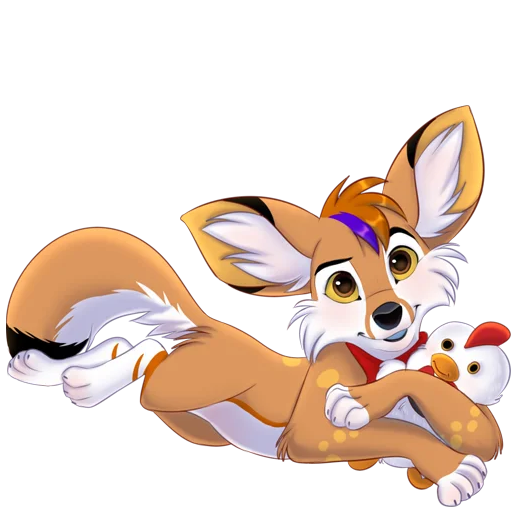
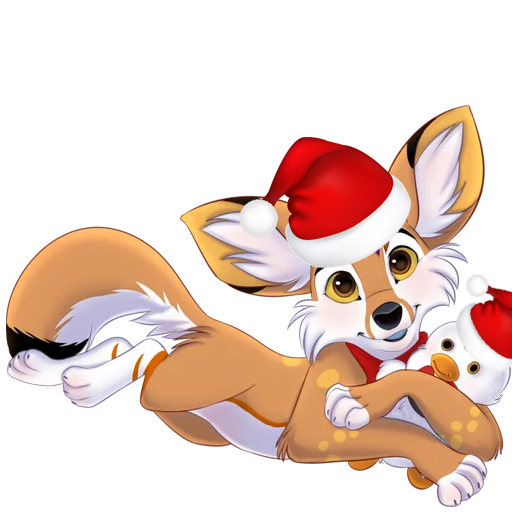
feat: added happy new year's stickers

Changed region(s): [[0.4688, 0.25, 0.8125, 0.5312], [0.875, 0.5625, 1.0, 0.7188]]

diff --git a/src/image.ts b/src/image.ts
@@ -7,6 +7,7 @@ const maskTypeMap = {
   fox: 'assets/mask-fox.png',
   fox2: 'assets/mask-fox2.png',
   fox3: 'assets/mask-fox3.png',
+  fox4: 'assets/mask-fox4.png',
   dragon: 'assets/mask-dragon.png',
   witch: 'assets/mask-witch.png',
   raspberry: 'assets/mask-raspberry.png',
@@ -29,6 +30,7 @@ const maskTypeMap = {
   pilaf: 'assets/mask-pilaf.png',
   jerry: 'assets/mask-jerry.png',
   gir: 'assets/mask-gir.png',
+  chickenloli: 'assets/mask-chickenloli.png'
 } as const;
 
 export type MaskType = keyof typeof maskTypeMap;

diff --git a/src/users.ts b/src/users.ts
@@ -116,7 +116,13 @@ const usersSettings: UserSettings[] = [
         name: 'thezaff',
         id: 30368454,
         mask: 'pilaf',
-        font: Font.DragonWhite
+        font: Font.PixelWhite
+    },
+    {
+        name: 'stass',
+        id: 1337761038,
+        mask: 'chickenloli',
+        font: Font.PixelWhite
     }
 ];
 
